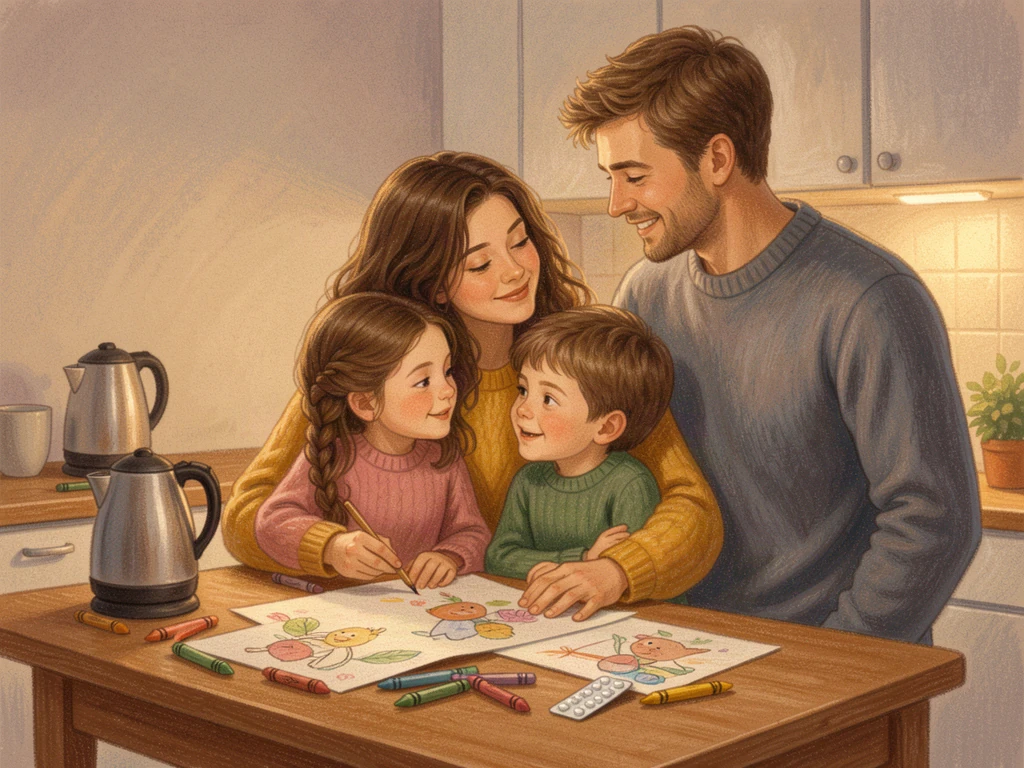
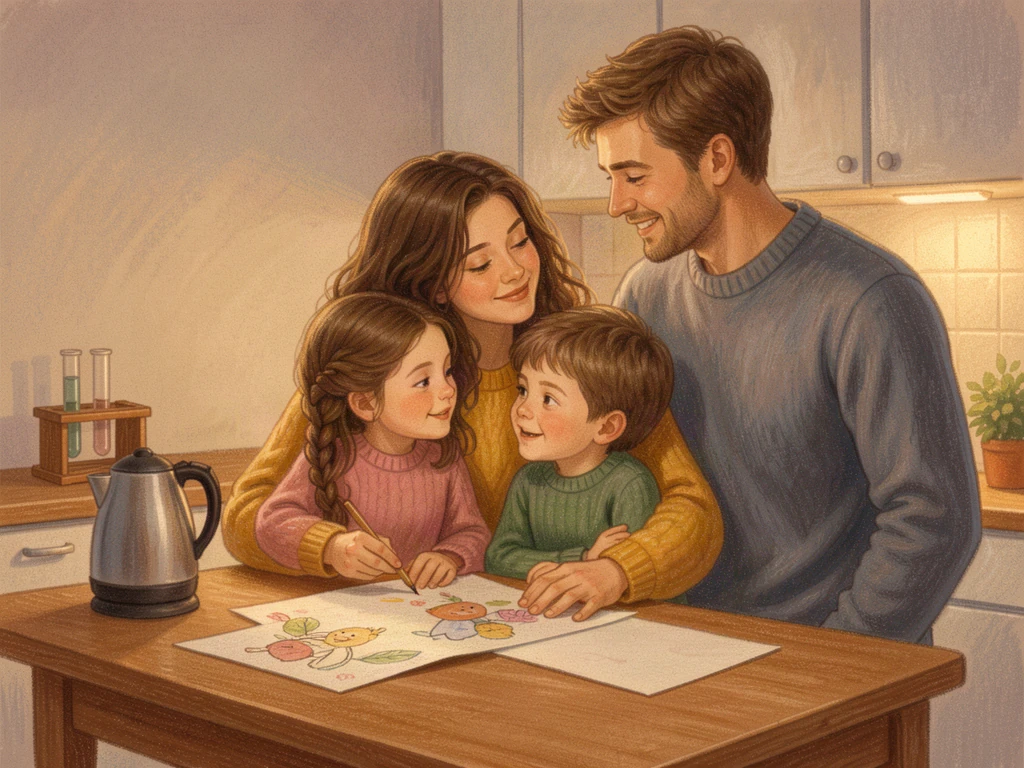
beta3: stage2 stethoscope+AED (two hotspots), stage9 test tubes, single kettle

Changed region(s): [[0.0625, 0.7812, 0.7188, 0.9375], [0.0, 0.4375, 0.1875, 0.6562], [0.25, 0.75, 0.3125, 0.7812]]

diff --git a/beta/index.html b/beta/index.html
@@ -110,7 +110,7 @@ const D={stages:[
   o:{sk:'…dýcha sama. To je dobrý znak.',en:'…she is breathing on her own. That is a good sign.'},
   in:{sk:'Svet bol prázdny papier a ja som chcela všetky farby.',en:'The world was a blank sheet and I wanted every colour.'},
   out:{sk:'Do každého obrázka som kreslila slnko. Aj do tých nočných.',en:'I drew a sun into every picture. Even the night ones.'},
-  h:{x:66.5,y:92.5,r:4.5,n:{sk:'Jednorazová rukavica',en:'A disposable glove'},w:{sk:'V škôlke sa nechávajú rukavice na hranie. Táto prišla z izby 214.',en:'In a kindergarten you leave the play gloves behind. This one came from room 214.'}}},
+  h:[{x:81,y:40.5,r:5,n:{sk:'Stetoskop v polici',en:'A stethoscope on the shelf'},w:{sk:'Medzi hračkami visí stetoskop. Nikto v škôlke ho nepotrebuje.',en:'A stethoscope hangs among the toys. Nobody in a kindergarten needs one.'}},{x:87.5,y:73,r:5,n:{sk:'Defibrilátor na koberci',en:'A defibrillator on the rug'},w:{sk:'Na koberci medzi kockami leží malý defibrilátor z izby 214.',en:'A small defibrillator from room 214 lies on the rug among the blocks.'}}]},
  {img:'assets/s03.webp',t:{sk:'Prvý deň v škole',en:'First Day of School'},
   o:{sk:'Sestrička: „Hovorte na ňu. Počuje vás.“',en:'Nurse: “Talk to her. She can hear you.”'},
   in:{sk:'Mama ma pri dverách pustila za ruku. Bola som taká malá.',en:'Mum let go of my hand at the door. I was so small.'},
@@ -145,7 +145,7 @@ const D={stages:[
   o:{sk:'Lekár: „Dnes prvýkrát stlačila mi ruku.“',en:'Doctor: “Today she squeezed my hand for the first time.”'},
   in:{sk:'Dva malé hlásky. Lepkavé ruky. Domov.',en:'Two small voices. Sticky hands. Home.'},
   out:{sk:'Ema nás nakreslila, ako sa držíme za ruky. „Aby sa nikto nestratil,“ povedala.',en:'Ema drew us holding hands. “So nobody gets lost,” she said.'},
-  h:{x:57.8,y:90.5,r:4.5,n:{sk:'Blister s liekmi',en:'A blister pack of pills'},w:{sk:'Pri detských kresbách nechal niekto lieky z izby 214.',en:'Someone left the pills from room 214 beside the drawings of the children.'}}},
+  h:{x:7.5,y:51,r:5.5,n:{sk:'Skúmavky pri kávovare',en:'Test tubes by the kettle'},w:{sk:'Pri rannej káve stoja skúmavky. Tie patria do laboratória, nie do kuchyne.',en:'Test tubes stand beside the morning coffee. They belong to a laboratory, not a kitchen.'}}},
  {img:'assets/s10.webp',t:{sk:'Dážď',en:'The Rain'},
   o:{sk:'„…Mami? Prosím, zobuď sa.“',en:'“…Mom? Please wake up.”'},
   in:{sk:'Len trochu dažďa. Skoro doma.',en:'Only a little rain. Almost home.'},
@@ -231,10 +231,13 @@ function buildStage(i){
   const s=D.stages[i];
   $('#bg').src=s.img;
   spots.innerHTML='';
-  const d=document.createElement('div');
-  d.className='hs';
-  d.style.left=s.h.x+'%';d.style.top=s.h.y+'%';d.style.width=(s.h.r*2)+'%';
-  spots.appendChild(d);
+  const hs=Array.isArray(s.h)?s.h:[s.h];
+  hs.forEach((hh,k)=>{
+    const d=document.createElement('div');
+    d.className='hs';d.dataset.i=k;
+    d.style.left=hh.x+'%';d.style.top=hh.y+'%';d.style.width=(hh.r*2)+'%';
+    spots.appendChild(d);
+  });
   label();layout();
   const vo=$('#voice');
   vo.textContent=(s.o&&s.o[L])||'';vo.classList.toggle('on',!!(s.o&&s.o[L]));
@@ -259,9 +262,11 @@ scene.addEventListener('pointerup',e=>{
 function found(el,e){
   locked=true;
   const s=D.stages[cur],r=scene.getBoundingClientRect();
+  const hs=Array.isArray(s.h)?s.h:[s.h];
+  const ho=hs[+el.dataset.i]||hs[0];
   el.classList.add('gone','ping');
   sfx('good');
-  whisper(`<b>${s.h.n[L]}</b> — ${s.h.w[L]}`);
+  whisper(`<b>${ho.n[L]}</b> — ${ho.w[L]}`);
   const px=((e.clientX-r.left)/r.width)*100,py=((e.clientY-r.top)/r.height)*100;
   const nextImg=(cur+1<D.stages.length)?D.stages[cur+1].img:'assets/s11.webp';
   setTimeout(()=>{
